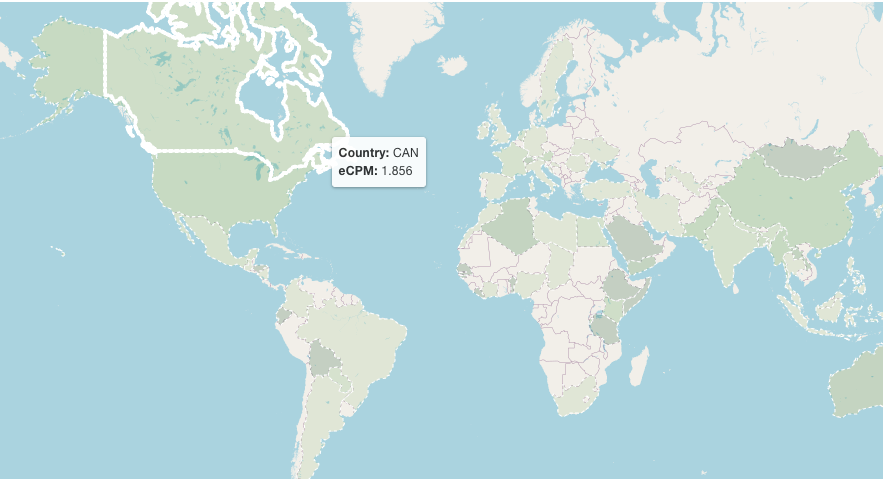
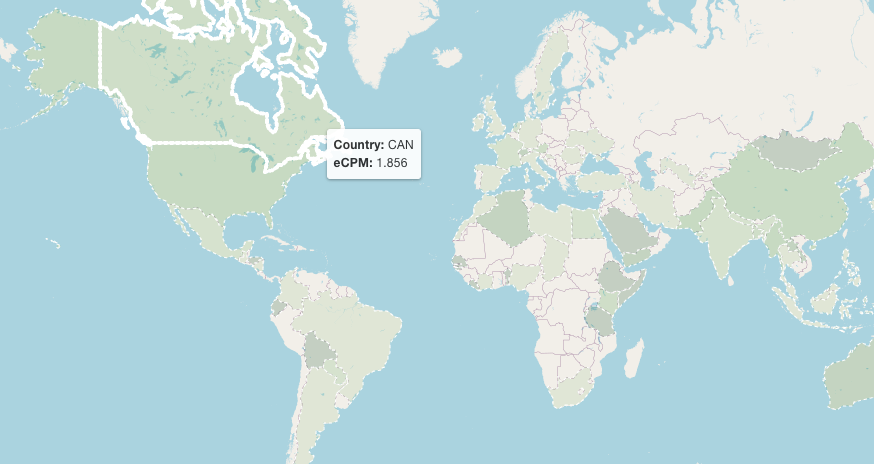
Improve landing page.

diff --git a/www/src/layouts/Home.vue b/www/src/layouts/Home.vue
@@ -4,7 +4,8 @@
       <v-img height="300" src="@/assets/logo.png" />
 
       <h1 class="text-h3 font-weight-bold">AdMob Watchtower</h1>
-      <div class="text-body-1 font-weight-light mb-n1">A third-party app for bringing transparency to the AdMob network.</div>
+      <div class="text-body-1 font-weight-light mb-n1">A third-party app for bringing transparency to the AdMob network.
+      </div>
 
       <div class="py-14" />
 
@@ -39,7 +40,6 @@
         <v-col cols="auto">
           <v-btn @click="getTheApp" min-width="164" rel="noopener noreferrer" variant="text">
             <v-icon icon="mdi-cellphone" size="medium" start />
-
             Get The App
           </v-btn>
         </v-col>
@@ -65,7 +65,7 @@
               <v-icon icon="mdi-cash-multiple" size="x-large"></v-icon>
             </td>
             <td>
-              Use the Network eCPM report to compare your eCPM with peers to find issues as 
+              Use the Network eCPM report to compare your eCPM with peers to find issues as
               well as opportunities.
             </td>
           </tr>
@@ -119,9 +119,13 @@
   <v-container class="pb-16">
     <v-row>
       <v-col>
-        <v-img :width="640" src="@/assets/map.png" />
+        <h1 class="text-h5 font-weight-bold">Data Explorer</h1>
+        Explore your realtime AdMob statistics with the built-in data explorer to see all your data in one place.
+        <img style="max-width: 100%;" src="@/assets/overview.png" />
       </v-col>
-      <v-col>
+    </v-row>
+    <v-row class="pt-16">
+      <v-col cols="auto" md="6" sm="12">
         <h1 class="text-h5 font-weight-bold">Network eCPM</h1>
         <p>
           Understand the state of the market by exploring eCPM breakdowns based on:
@@ -130,20 +134,36 @@
           <li>Time</li>
           <li>Format</li>
           <li>Country</li>
-          <li>App category</li>
+          <li>App genre</li>
           <li>Personalization</li>
         </ul>
-        <p>
-          Discover issues and find new opportunities with the <b>Network eCPM</b> report which 
-          provides you with the latest data from across our network.
-        </p>
+        Discover issues and find new opportunities with the Network eCPM report which provides you with the latest data
+        from across our network.
+      </v-col>
+      <v-col cols="auto" md="6" sm="12">
+        <div style="text-align:center;">
+          <img style="max-width: 100%; border: 3px solid #ddd; border-radius: 10px;" src="@/assets/map.png" />
+        </div>
       </v-col>
     </v-row>
-    <v-row class="pt-16">
-      <v-col>
-        <h1 class="text-h5 font-weight-bold">Data Explorer</h1>
-        Explore your realtime AdMob statistics with the built-in data explorer to see all your data in one place.
-        <v-img src="@/assets/overview.png" />
+  </v-container>
+  <v-container class="pb-16">
+    <v-row>
+      <v-col cols="auto" md="6" sm="12">
+        <h1 class="text-h5 font-weight-bold">Open Source</h1>
+        <p>
+          Explore the <a href="https://github.com/k15z/watchtower/">code base</a> on GitHub. Feel free to jump in and
+          pick up an issue or two to work on - contributions are greatly appreciated. Or, if you want to build something
+          on top of our platform, you can sign in and generate an API key to develop against the Watchtower API.
+        </p>
+      </v-col>
+      <v-col cols="auto" md="6" sm="12">
+        <h1 class="text-h5 font-weight-bold">Privacy Preserving</h1>
+        <p>
+          All of your data is anonymized and aggregated prior to being included in the Network eCPM report. We protect
+          all your data, but we take special steps to protect sensitive attributes such as your identity, your apps,
+          and your total revenue.
+        </p>
       </v-col>
     </v-row>
   </v-container>
@@ -162,6 +182,23 @@
   </v-container>
   <v-overlay :model-value="state.is_validating" class="align-center justify-center">
     <v-progress-circular color="primary" indeterminate size="64"></v-progress-circular>
+  </v-overlay>
+  <v-overlay :model-value="state.show_app_preview" class="align-center justify-center" @afterLeave="state.show_app_preview=false">
+    <v-card class="pa-4" max-width="480">
+      <v-card-title>
+        Coming Soon
+      </v-card-title>
+      <v-card-text>
+        <p>
+          We're hard at work building Watchtower for iOS and Android! Sign up here to get notified when
+          the release is ready and to get early access to developer builds.
+        </p>
+        <p class="pt-4">
+          <v-text-field v-model="state.email" label="Email address" type="email" placeholder="me@kevz.dev"></v-text-field>
+        </p>
+        <v-btn @click="subscribe" color="primary" block>Subscribe</v-btn>
+      </v-card-text>
+    </v-card>
   </v-overlay>
 </template>
 
@@ -199,12 +236,14 @@ table.footer a:hover {
 <script lang="ts" setup>
 import { reactive } from 'vue'
 import router from '../router'
-import { BASE_API_URL, helloWorld } from '../api'
+import { BASE_API_URL, helloWorld, sendMessage } from '../api'
 import { store } from '../store'
 import { event } from 'vue-gtag'
 
 const state = reactive({
+  email: '',
   is_validating: false,
+  show_app_preview: false,
   is_signed_in: localStorage.getItem("token") ? true : false
 })
 
@@ -260,6 +299,12 @@ function launchAuthorizationFlow() {
 
 function getTheApp() {
   event("get_the_app", {})
-  alert("Coming soon!")
+  state.show_app_preview = true
+}
+
+function subscribe() {
+  sendMessage(state.email, "Let me know when the app is ready!");
+  state.email = '';
+  state.show_app_preview = false
 }
 </script>

diff --git a/www/src/views/Settings.vue b/www/src/views/Settings.vue
@@ -71,7 +71,7 @@
             </p>
             <v-text-field v-model="data.email" label="Email" placeholder="hello@kevz.dev" type="email"></v-text-field>
             <v-textarea v-model="data.message" label="Message" placeholder="Say hello!"></v-textarea>
-            <v-btn @click="sendMessage" block>Submit</v-btn>
+            <v-btn @click="callSendMessage" block>Submit</v-btn>
           </v-card-text>
         </v-card>
       </v-col>
@@ -86,7 +86,7 @@
 <script lang="ts" setup>
 import router from "../router"
 import { store } from "@/store"
-import { BASE_API_URL } from "@/api";
+import { BASE_API_URL, sendMessage } from "@/api";
 import { reactive } from 'vue'
 import { event } from 'vue-gtag'
 
@@ -124,20 +124,9 @@ function revokeAPIKeys() {
   })
 }
 
-function sendMessage() {
-  event('send_message', {email: data.email})
-  return fetch(BASE_API_URL + "/account/message", {
-    method: 'POST',
-    mode: 'cors',
-    headers: {
-      'Authorization': `Bearer ${store.token}`,
-      'Content-Type': 'application/json'
-    },
-    body: JSON.stringify({
-      email: data.email,
-      message: data.message
-    })
-  }).then(async (res) => {
+function callSendMessage() {
+  event('send_message', { email: data.email })
+  sendMessage(data.email, data.message).then(async (res) => {
     data.email = ''
     data.message = ''
   })

diff --git a/www/src/api.ts b/www/src/api.ts
@@ -50,4 +50,19 @@ function realtimeQuery(start: string, end: string, breakdowns: string[]) {
     })
 }
 
-export { BASE_API_URL, helloWorld, ecpmByBreakdowns, realtimeByApp, realtimeQuery }
+function sendMessage(email: string, message: string) {
+    return fetch(BASE_API_URL + "/account/message", {
+      method: 'POST',
+      mode: 'cors',
+      headers: {
+        'Authorization': `Bearer ${store.token}`,
+        'Content-Type': 'application/json'
+      },
+      body: JSON.stringify({
+        email: email,
+        message: message
+      })
+    })
+  }
+
+export { BASE_API_URL, helloWorld, ecpmByBreakdowns, realtimeByApp, realtimeQuery, sendMessage }

diff --git a/api/app.py b/api/app.py
@@ -110,7 +110,10 @@ def _post_account_message():
     auth = app.current_request.headers.get("Authorization", None)
     token = auth.split()[1]
     with connection() as conn:
-        id = get_account_id(conn, token)
+        try:
+            id = get_account_id(conn, token)
+        except:
+            id = None
         body = app.current_request.json_body
         body["email"], body["message"]
         return insert_message(conn, id, body["email"], body["message"])
